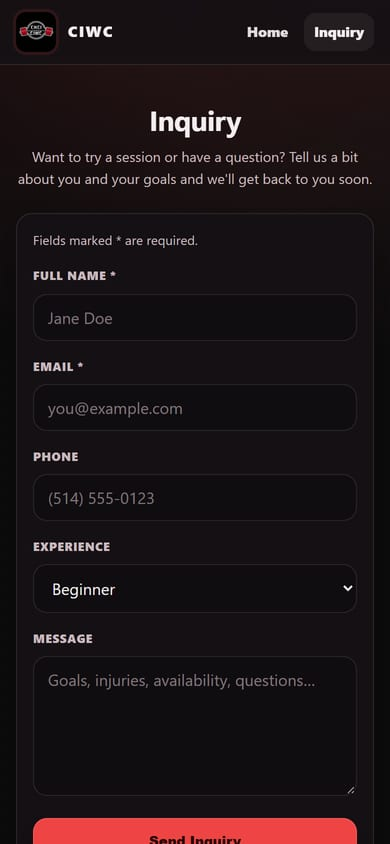
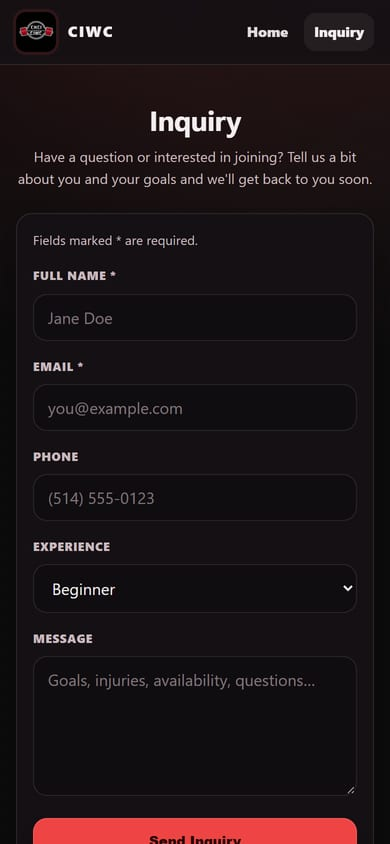
Remove trial-session wording; calls to action say Get in Touch
The club doesn't offer trial sessions. Hero button is now "Get in Touch",
About button "Contact Us", and the meta descriptions, inquiry intro and
README no longer mention trials. README screenshots retaken.

Changed region(s): [[0.0923, 0.154, 0.9231, 0.2156]]

diff --git a/index.html b/index.html
@@ -5,7 +5,7 @@
   <meta name="viewport" content="width=device-width, initial-scale=1, viewport-fit=cover" />
 
   <title>CIWC | Olympic Weightlifting Club in Montréal</title>
-  <meta name="description" content="Concordia International Weightlifting Club (CIWC): community Olympic weightlifting in Montréal since 2002. Training schedule, trial sessions, sponsors and contact." />
+  <meta name="description" content="Concordia International Weightlifting Club (CIWC): community Olympic weightlifting in Montréal since 2002. Training schedule, sponsors and contact." />
   <meta name="theme-color" content="#0c0b0c" />
   <link rel="canonical" href="https://ciweightlifting.ca/" />
 
@@ -68,7 +68,7 @@
           <h1 id="hero-title">Concordia International Weightlifting Club</h1>
           <p>Community Olympic weightlifting in Montréal since 2002. Beginners welcome.</p>
           <div class="cta">
-            <a class="btn" data-inquiry-link href="inquiry/">Book a Trial Session</a>
+            <a class="btn" data-inquiry-link href="inquiry/">Get in Touch</a>
             <a class="btn ghost" data-channel-link href="https://www.youtube.com/channel/UC3EnVXpZZ2f3pTmMMZJzWLg">Watch on YouTube <span aria-hidden="true">↗</span></a>
           </div>
         </div>
@@ -109,8 +109,8 @@
               we have trained athletes of all ages and backgrounds. Everyone is welcome, from beginners to
               national competitors.
             </p>
-            <p>Drop in for a trial session or to chat with our athletes.</p>
-            <a class="btn small" data-inquiry-link href="inquiry/">Ask About a Trial</a>
+            <p>Have a question or interested in joining? Get in touch and we'll help you get started.</p>
+            <a class="btn small" data-inquiry-link href="inquiry/">Contact Us</a>
           </div>
         </div>
       </section>

diff --git a/inquiry/index.html b/inquiry/index.html
@@ -5,7 +5,7 @@
   <meta name="viewport" content="width=device-width, initial-scale=1, viewport-fit=cover" />
 
   <title>Inquiry | CIWC Olympic Weightlifting Club</title>
-  <meta name="description" content="Book a trial session or ask a question: send a training inquiry to CIWC, Concordia International Weightlifting Club in Montréal." />
+  <meta name="description" content="Questions about joining or training? Send an inquiry to CIWC, Concordia International Weightlifting Club in Montréal." />
   <meta name="theme-color" content="#0c0b0c" />
   <link rel="canonical" href="https://ciweightlifting.ca/inquiry/" />
 
@@ -50,7 +50,7 @@
 
   <main id="main" class="container inquiry-main">
     <h1>Inquiry</h1>
-    <p class="lead">Want to try a session or have a question? Tell us a bit about you and your goals and we'll get back to you soon.</p>
+    <p class="lead">Have a question or interested in joining? Tell us a bit about you and your goals and we'll get back to you soon.</p>
 
     <div class="card">
       <form id="inquiry-form" action="https://formspree.io/f/mwprbnln" method="POST" autocomplete="on" novalidate>

diff --git a/docs/PLAN.md b/docs/PLAN.md
@@ -12,16 +12,17 @@ steps without changing the stack (static HTML/CSS/JS on GitHub Pages).
 2. **Automated checks.** Playwright smoke tests (pages load, form validates, phone viewport has no
    horizontal scroll, menu works), then a GitHub Actions workflow that runs them on each PR.
 3. **Measured performance.** Lighthouse in CI on each PR, with before/after numbers recorded here.
-4. **Content gaps** (needs club input): first-session info (cost, what to bring, book or drop in),
+4. **Content gaps** (needs club input): joining info (cost, what to bring, how to start),
    coaches and affiliation, age policy, a French version.
 
 ## Status
 
-Milestone 1 done on branch `polish/readme-and-ui`. Oliver is testing it before pushing.
+Milestone 1 merged and live (PR #1). Follow-up on branch `fix/no-trial-sessions`.
 
 Decisions:
 - Founding year is 2002. The `ciwc2001@` address is just the mailbox name and stays.
 - The unused images in `images/` stay for now.
+- The club does not offer trial sessions. Calls to action say "Get in Touch" / "Contact Us".
 - No code licence. Default copyright (all rights reserved) applies, and the README notes that photos and logos
   aren't for reuse. Revisit only if someone asks to reuse the code.
 
@@ -50,3 +51,9 @@ Still open: the content gaps in milestone 4.
 - Verified in headless Edge at 390px and 1366px: no console errors, no horizontal overflow, empty and invalid
   submits blocked, valid submit and error paths tested against a mocked Formspree, and the 404 page styles
   load from a nested path.
+
+### Session 2: copy fix
+- Removed every mention of trial sessions (the club doesn't offer them). The hero button is now "Get in Touch",
+  the About button "Contact Us", and the meta descriptions, inquiry intro and README were updated to match.
+  Session 1's "trial session" call to action was wrong.
+- Retook the README screenshots.

diff --git a/CLAUDE.md b/CLAUDE.md
@@ -13,6 +13,8 @@ Static site for the Concordia International Weightlifting Club, live at https://
    Instagram and address also appear as static fallbacks in `index.html` so they work without JS;
    keep both in sync.
 4. **Don't invent club facts** (prices, coaches, age policy, affiliations). Ask Oliver.
+   The club does **not** offer trial sessions: calls to action say "Get in Touch" / "Contact Us"
+   and link to the inquiry page.
 5. **Images:** lowercase-kebab-case file names, sized for their display size (roughly 2× for retina),
    and with `width`/`height` attributes on `<img>`. Nothing over ~200 KB without a reason.
 6. Header and footer markup is duplicated across `index.html`, `inquiry/index.html` and `404.html`.

diff --git a/README.md b/README.md
@@ -12,7 +12,7 @@ weightlifting club in Montréal. Live at **[ciweightlifting.ca](https://ciweight
 ## What it does
 
 - **Training schedule and location**: the address opens in Google Maps.
-- **Trial and inquiry form** that sends to the club's inbox through [Formspree](https://formspree.io).
+- **Contact / inquiry form** that sends to the club's inbox through [Formspree](https://formspree.io).
   The page doesn't reload; it validates fields, blocks double submits, and shows Formspree's error message if a send fails.
 - **YouTube playlist** embed (privacy-enhanced `youtube-nocookie.com`) with a quote panel.
 - **Sponsors** section with a "Become a Sponsor" contact link.
